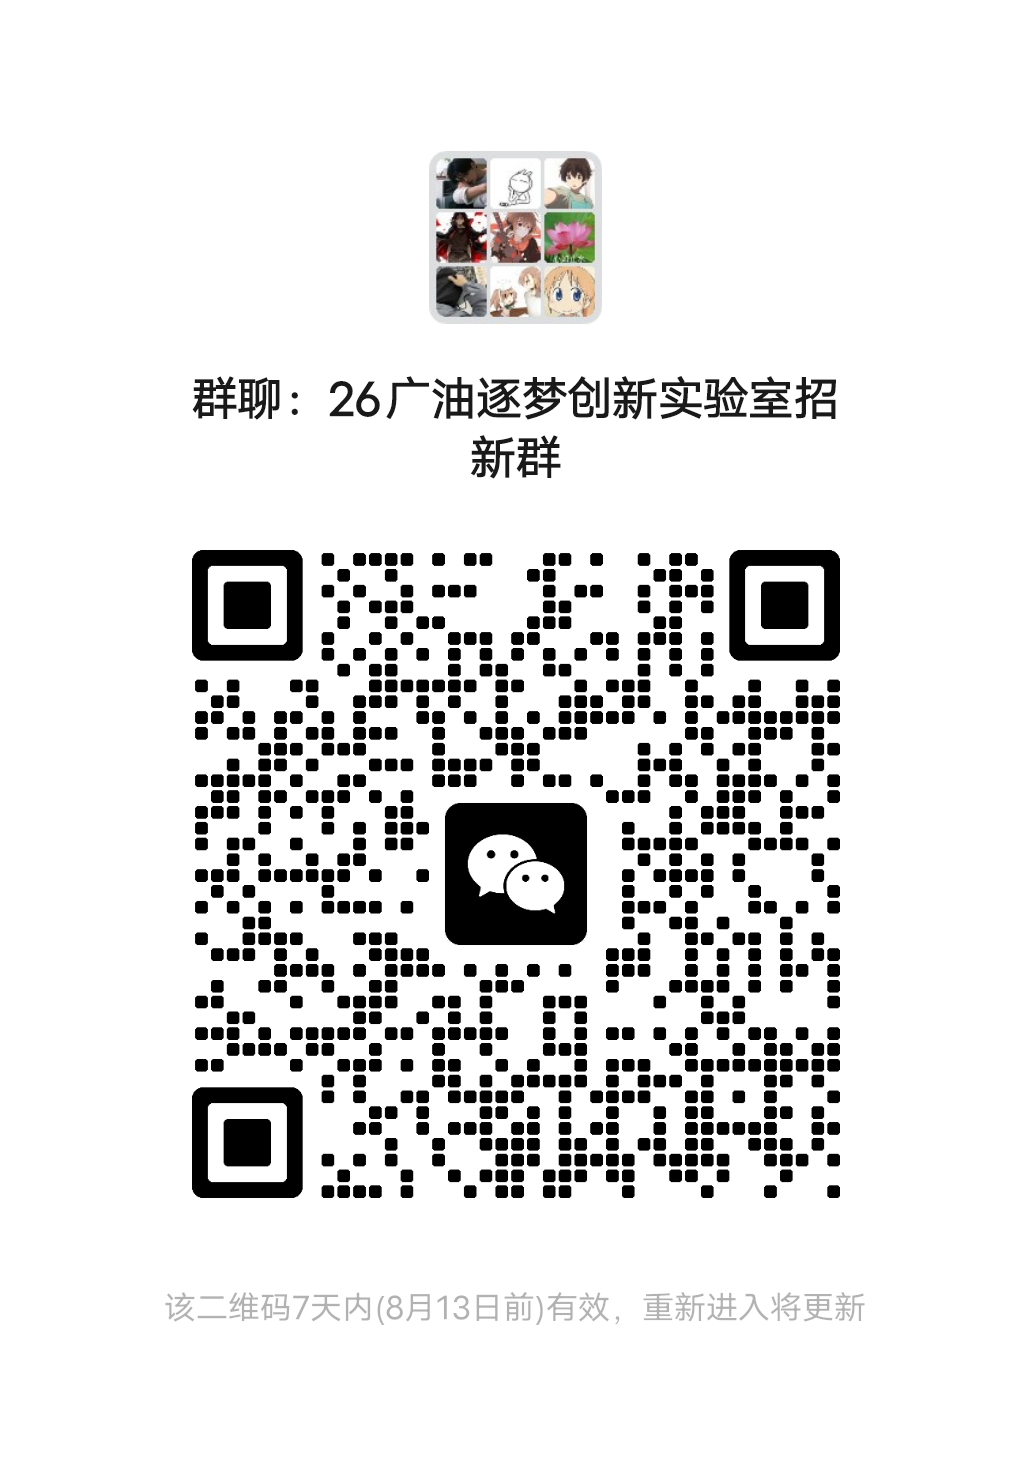
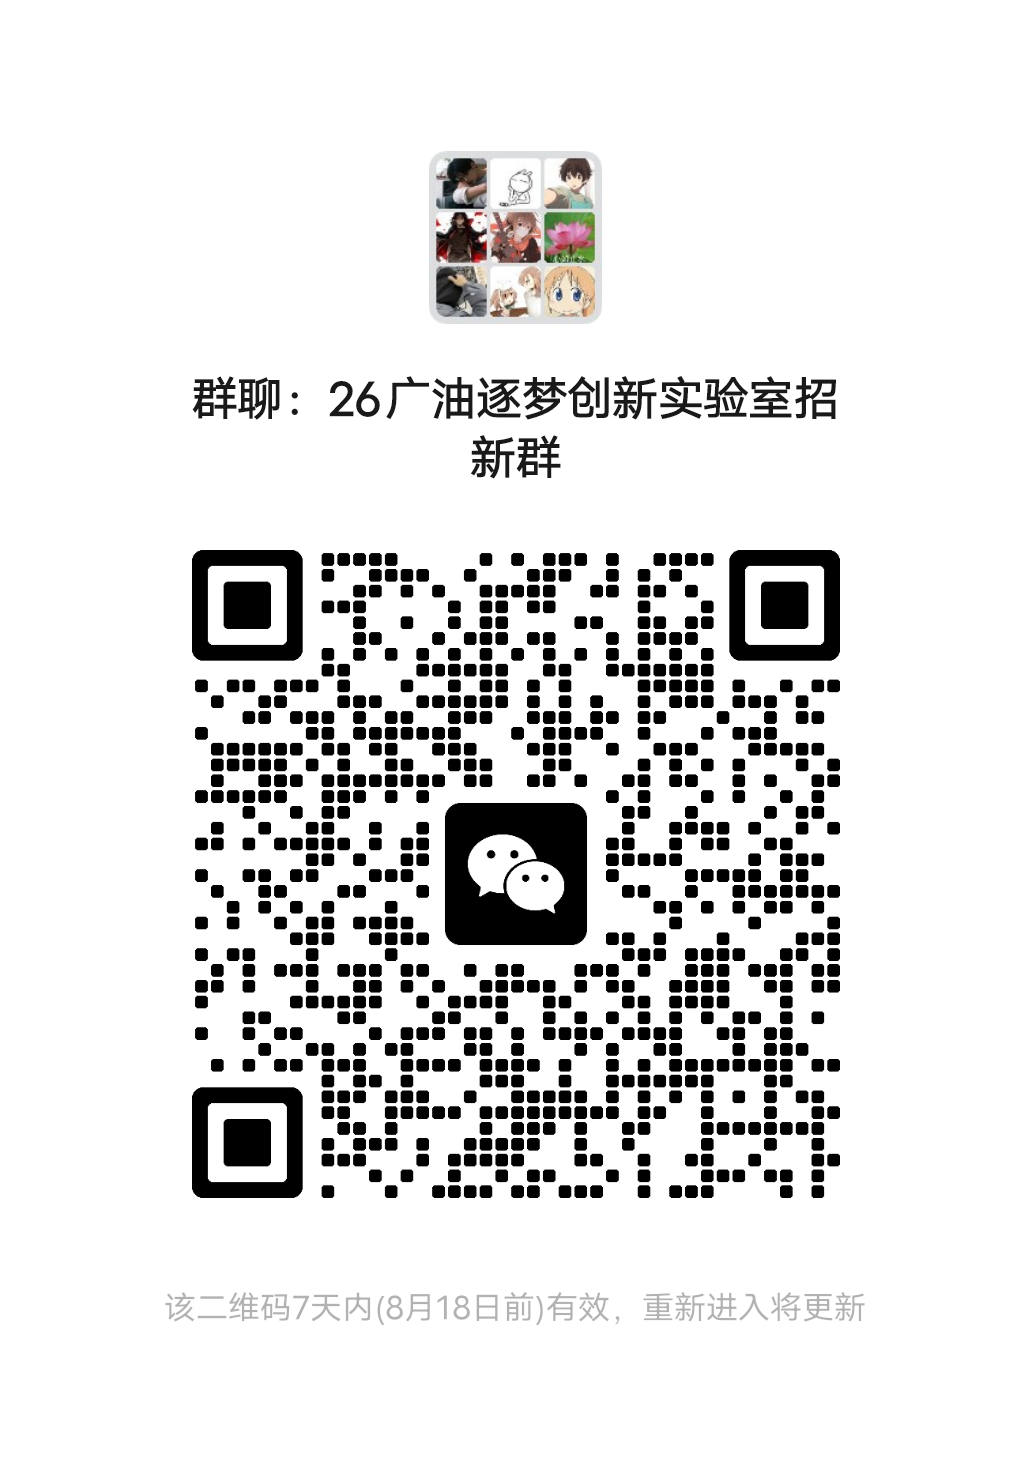
Update recruitment QR code

Changed region(s): [[0.1862, 0.3735, 0.838, 0.8092]]

diff --git a/index.html b/index.html
@@ -496,7 +496,7 @@
         <div class="apply-panel" aria-label="报名准备">
           <figure class="qr-card">
             <img
-              src="./assets/recruitment-qr.png?v=20260806"
+              src="./assets/recruitment-qr.png?v=20260811"
               alt="26广油逐梦创新实验室招新群二维码"
               width="1031"
               height="1478"
@@ -505,7 +505,7 @@
             <figcaption>
               <strong>扫码加入招新咨询群</strong>
               <span>26广油逐梦创新实验室招新群</span>
-              <small>二维码 7 天内有效，8 月 13 日前可扫码加入。</small>
+              <small>二维码 7 天内有效，8 月 18 日前可扫码加入。</small>
             </figcaption>
           </figure>
           <div class="apply-actions">
